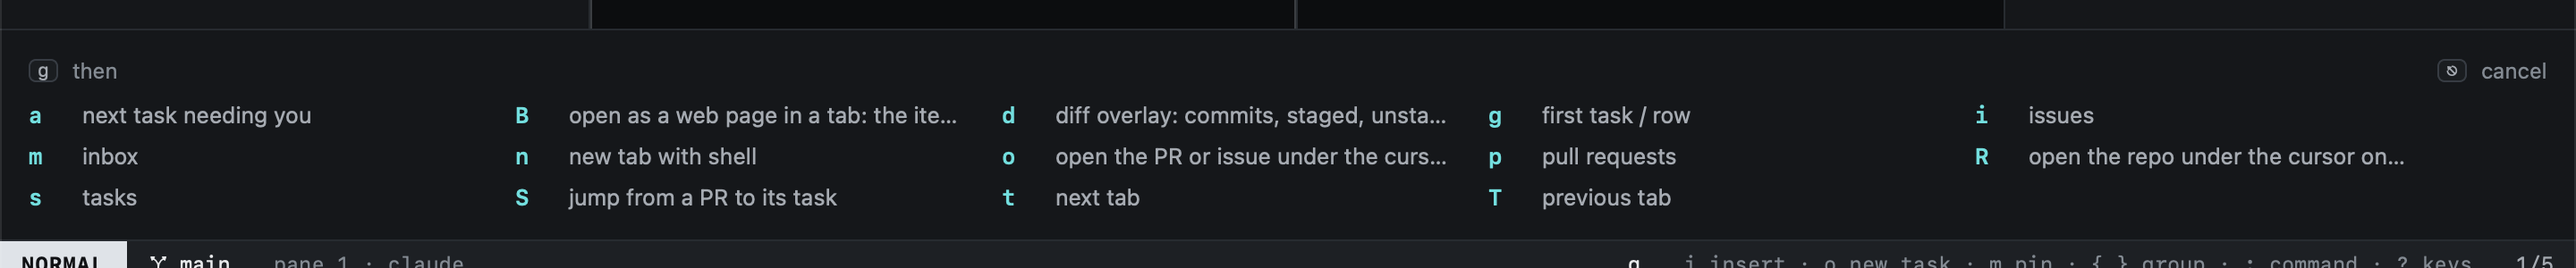
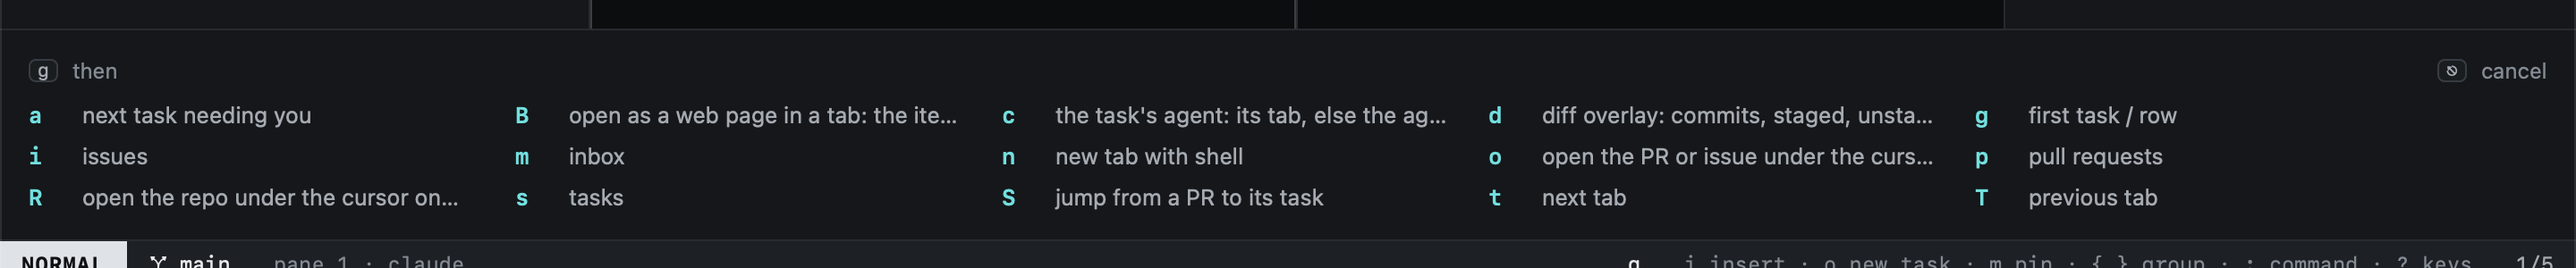
gc (tab.agent): to the task's agent, or bring back the one closed by mistake
A closed agent pane's Claude session and folder stay on the task's layout.
gc goes to the agent tab when there is one; else it resumes the agent closed
last where it worked (when Claude still has the session); else it starts a new
agent where the task works. The close confirmations say so.

diff --git a/Tests/HeedCoreTests/TaskTests.swift b/Tests/HeedCoreTests/TaskTests.swift
@@ -323,6 +323,75 @@ struct NewTaskTests {
         #expect(domain.layouts.values.first?.tabs.first?.focused == panes.first?.id)
     }
 
+    @Test func theAgentKeyGoesToTheAgentTabTheTaskHas() {
+        var layout = layout("t", agents: ["a"])
+        layout.tabs.insert(PaneTab(title: "shell", tree: .leaf(pane("t-first"))), at: 0)
+        let opening = NewTask.openAgent(
+            in: layout, task: task("t"), agent: WorkSettings.default.claude, integration: nil
+        )
+        #expect(opening == .existing(tab: 1, pane: "t-a"))
+    }
+
+    @Test func aClosedAgentComesBackResumedWhereItWorked() throws {
+        var domain = Domain(
+            tasks: [task("t")], layouts: ["t": layout("t", agents: ["a"])],
+            agents: ["t-a": AgentTab(claudeSessionID: "s-1")]
+        )
+        var moved = try #require(domain.layouts["t"])
+        moved.tabs[0].tree = moved.tabs[0].tree.updating("t-a") { $0.directory = "/wt/fix" }
+        domain.apply(.layoutChanged(task: "t", moved))
+        var closed = try #require(domain.layouts["t"])
+        closed.removeTab(at: 0)
+        domain.apply(.layoutChanged(task: "t", closed))
+        let kept = try #require(domain.layouts["t"])
+        #expect(kept.closedAgent == ClosedAgent(claudeSessionID: "s-1", directory: "/wt/fix"))
+
+        let opening = NewTask.openAgent(
+            in: kept, task: task("t"), agent: WorkSettings.default.claude, integration: nil
+        ) { id, directory in id == "s-1" && directory == "/wt/fix" }
+        guard case let .opened(layout, paneID, agent, resumed) = opening else {
+            Issue.record("expected a new agent tab, got \(String(describing: opening))")
+            return
+        }
+        #expect(resumed)
+        #expect(layout.closedAgent == nil)
+        #expect(layout.activeTab == layout.tabs.count - 1)
+        let pane = try #require(layout.tabs.last?.tree.panes.first)
+        #expect(pane.id == paneID)
+        #expect(pane.role == .agent)
+        #expect(pane.directory == "/wt/fix")
+        #expect(pane.command == "claude --resume s-1")
+        #expect(agent.claudeSessionID == "s-1")
+    }
+
+    @Test func withoutAClosedAgentClaudeHasItStartsAFreshOneWhereTheTaskWorks() throws {
+        let gone = TaskLayout(tabs: [], closedAgent: ClosedAgent(claudeSessionID: "s-1", directory: "/wt/old"))
+        var worktree = task("t")
+        worktree.worktree = "/wt/fix"
+        for layout in [TaskLayout(tabs: []), gone] {
+            let opening = NewTask.openAgent(
+                in: layout, task: worktree, agent: WorkSettings.default.claude, integration: nil
+            ) { _, _ in false }
+            guard case let .opened(opened, _, agent, resumed) = opening else {
+                Issue.record("expected a new agent tab, got \(String(describing: opening))")
+                return
+            }
+            #expect(!resumed)
+            #expect(opened.closedAgent == nil)
+            let pane = try #require(opened.tabs.last?.tree.panes.first)
+            #expect(pane.directory == "/wt/fix")
+            let id = try #require(agent.claudeSessionID)
+            #expect(pane.command == "claude --session-id \(id)")
+        }
+        #expect(NewTask.openAgent(in: gone, task: worktree, agent: nil, integration: nil) == nil)
+    }
+
+    @Test func aLayoutCachedBeforeClosedAgentsStillLoads() throws {
+        let json = #"{"tabs":[],"activeTab":0}"#
+        let layout = try JSONDecoder().decode(TaskLayout.self, from: Data(json.utf8))
+        #expect(layout.closedAgent == nil)
+    }
+
     @Test func withoutClaudeItOpensAShell() {
         let settings = WorkSettings(agents: [])
         let domain = Domain.empty.applying(NewTask.start(WorkTask(title: "t"), settings: settings, integration: nil))

diff --git a/Sources/HeedApp/Model/AppModel.swift b/Sources/HeedApp/Model/AppModel.swift
@@ -1051,6 +1051,7 @@ final class AppModel {
         case "tab.next": cycleTab(by: count)
         case "tab.prev": cycleTab(by: -count)
         case "tab.new": newTab()
+        case "tab.agent": openAgentTab()
         case "browser.new": newPageTab(command.arguments.joined(separator: " "))
         case "browser.location":
             if let pane = focusedBrowserPane { beginAddressEdit(pane) } else { flash = "not on a web page" }
@@ -1586,7 +1587,10 @@ final class AppModel {
         }
         ask(Confirmation(
             title: "Close the \(pane.title) pane?",
-            lines: ["The agent in it stops; the task and its worktree stay"],
+            lines: [
+                "The agent in it stops; the task and its worktree stay",
+                "\(keyText(for: "tab.agent")) brings the agent back, with its conversation",
+            ],
             accept: "Close"
         ) { [weak self] in self?.closePane() })
     }
@@ -2510,7 +2514,10 @@ final class AppModel {
         layout.activeTab = index
         ask(Confirmation(
             title: "Close the \(layout.tabs[index].title) tab?",
-            lines: ["The agent in it stops; the task and its worktree stay"],
+            lines: [
+                "The agent in it stops; the task and its worktree stay",
+                "\(keyText(for: "tab.agent")) brings the agent back, with its conversation",
+            ],
             accept: "Close"
         ) { close() })
     }
@@ -2542,6 +2549,28 @@ final class AppModel {
             layout.activeTab = layout.tabs.count - 1
         }
         autoInsert()
+    }
+
+    /// `gc`: to the task's agent, in INSERT; one closed by mistake comes back with its conversation.
+    private func openAgentTab() {
+        guard let task = currentTask else { return flash = "no task here" }
+        view = .tasks
+        let opening = NewTask.openAgent(
+            in: layouts[task.id] ?? TaskLayout(tabs: []), task: task, agent: settings.claude, integration: integration
+        ) { id, directory in AgentIntegration.hasSession(agent: "claude", id: id, directory: directory) }
+        switch opening {
+        case nil:
+            flash = "no agent set up ([agents.claude])"
+        case let .existing(tab, pane):
+            updateLayout { $0.activeTab = tab }
+            focusPane(pane)
+            enterInsert()
+        case let .opened(layout, pane, agent, resumed):
+            autostart(layout.panes.filter { $0.id == pane })
+            commit([.layoutChanged(task: task.id, layout), .agentChanged(pane: pane, agent)])
+            flash = resumed ? "resumed the agent closed last" : "new agent in \(Paths.abbreviate(task.directory))"
+            enterInsert()
+        }
     }
 
     func selectTab(_ index: Int) {

diff --git a/Sources/HeedCore/Tasks/NewTask.swift b/Sources/HeedCore/Tasks/NewTask.swift
@@ -150,6 +150,56 @@ public enum NewTask {
         return layout
     }
 
+    /// What `tab.agent` does in a task.
+    public enum AgentOpening: Equatable, Sendable {
+        /// The task has an agent tab: go there.
+        case existing(tab: Int, pane: String)
+        /// A new agent tab, shown at the end: the agent closed last, resumed where it worked, else a fresh one where
+        /// the task works.
+        case opened(TaskLayout, pane: String, AgentTab, resumed: Bool)
+    }
+
+    /// The task's agent, brought back when its tab was closed. `hasSession` says whether Claude still has a session
+    /// for a folder (nil when it cannot tell). Nil without Claude.
+    public static func openAgent(
+        in layout: TaskLayout, task: WorkTask, agent: AgentProfile?, integration: IntegrationFiles?,
+        hasSession: (_ id: String, _ directory: String) -> Bool? = { _, _ in nil }
+    ) -> AgentOpening? {
+        for (index, tab) in layout.tabs.enumerated() {
+            if let pane = tab.tree.panes.first(where: { $0.role == .agent }) {
+                return .existing(tab: index, pane: pane.id)
+            }
+        }
+        guard let agent else { return nil }
+        var layout = layout
+        let tab: PaneTab
+        let made: (pane: String, tab: AgentTab)
+        var resumed = false
+        if let closed = layout.closedAgent, hasSession(closed.claudeSessionID, closed.directory) != false,
+           let command = agent.resumeCommand(
+               id: closed.claudeSessionID,
+               extraArguments: AgentIntegration.launchArguments(
+                   agent: agent, claudeSessionID: closed.claudeSessionID, files: integration, resuming: true
+               )
+           )
+        {
+            let pane = PaneSpec(
+                id: newID(), role: .agent, title: agent.name, directory: closed.directory, command: command
+            )
+            tab = PaneTab(id: newID(), title: "agent", tree: .leaf(pane))
+            made = (pane.id, AgentTab(activity: "resuming", claudeSessionID: closed.claudeSessionID))
+            resumed = true
+        } else {
+            let built = agentTab(in: task.directory, prompt: "", agent: agent, integration: integration)
+            guard let agent = built.agent else { return nil }
+            (tab, made) = (built.tab, agent)
+        }
+        layout.closedAgent = nil
+        layout.tabs.append(tab)
+        layout.activeTab = layout.tabs.count - 1
+        return .opened(layout, pane: made.pane, made.tab, resumed: resumed)
+    }
+
     /// A tab running `agent` on `prompt` in `directory`, with its own Claude session id, and a shell split beside it
     /// when asked. Without an agent, a shell.
     public static func agentTab(

diff --git a/Sources/HeedCore/Domain/Domain.swift b/Sources/HeedCore/Domain/Domain.swift
@@ -4,10 +4,13 @@ import Foundation
 public struct TaskLayout: Hashable, Sendable, Codable {
     public var tabs: [PaneTab]
     public var activeTab: Int
+    /// The agent whose pane closed last, so `tab.agent` can resume it. An old cache without it still loads.
+    public var closedAgent: ClosedAgent?
 
-    public init(tabs: [PaneTab], activeTab: Int = 0) {
+    public init(tabs: [PaneTab], activeTab: Int = 0, closedAgent: ClosedAgent? = nil) {
         self.tabs = tabs
         self.activeTab = activeTab
+        self.closedAgent = closedAgent
     }
 
     public var panes: [PaneSpec] { tabs.flatMap(\.tree.panes) }
@@ -76,6 +79,17 @@ public struct TaskLayout: Hashable, Sendable, Codable {
     }
 }
 
+/// An agent tab that was closed: its Claude session and the folder it last worked in.
+public struct ClosedAgent: Hashable, Sendable, Codable {
+    public var claudeSessionID: String
+    public var directory: String
+
+    public init(claudeSessionID: String, directory: String) {
+        self.claudeSessionID = claudeSessionID
+        self.directory = directory
+    }
+}
+
 /// Everything Heed knows, as one value. The window is drawn from this (plus input state), it is what the cache
 /// stores, and fixtures are just instances of it, so the UI can start in any state without IO. A cache with fields this
 /// build no longer has still loads: decoding skips unknown keys.
@@ -118,7 +132,7 @@ public enum DomainChange: Hashable, Sendable, Codable {
     case taskUpserted(WorkTask)
     /// The task goes with its layout and its agent tabs.
     case taskRemoved(String)
-    /// Agent tabs of panes the new layout no longer has go too.
+    /// Agent tabs of panes the new layout no longer has go too; the layout keeps a closed agent's Claude session.
     case layoutChanged(task: String, TaskLayout)
     case agentChanged(pane: String, AgentTab)
     /// A GitHub sync finished (or failed: the status says so and the data is the previous data).
@@ -145,8 +159,12 @@ public extension Domain {
             }
             layouts[id] = nil
         case let .layoutChanged(task, layout):
+            var layout = layout
             let kept = Set(layout.panes.map(\.id))
             for pane in layouts[task]?.panes ?? [] where !kept.contains(pane.id) {
+                if pane.role == .agent, let id = agents[pane.id]?.claudeSessionID {
+                    layout.closedAgent = ClosedAgent(claudeSessionID: id, directory: pane.directory)
+                }
                 agents[pane.id] = nil
             }
             layouts[task] = layout

diff --git a/Sources/HeedCore/Keys/DefaultKeys.swift b/Sources/HeedCore/Keys/DefaultKeys.swift
@@ -17,7 +17,7 @@ public enum DefaultKeys {
         ("<C-w>v", "pane.split.right"), ("<C-w>s", "pane.split.below"), ("<C-w>z", "pane.zoom"),
         ("<C-w>q", "pane.close"), ("<C-w>h", "pane.left"), ("<C-w>l", "pane.right"), ("<C-w>j", "pane.down"),
         ("<C-w>k", "pane.up"),
-        ("gt", "tab.next"), ("gT", "tab.prev"), ("gn", "tab.new"), ("<D-t>", "browser.new"),
+        ("gt", "tab.next"), ("gT", "tab.prev"), ("gn", "tab.new"), ("gc", "tab.agent"), ("<D-t>", "browser.new"),
         ("gs", "view.tasks"), ("gm", "view.inbox"), ("gi", "view.issues"), ("gp", "view.prs"),
         ("go", "overlay.item"), ("gd", "overlay.diff"), ("gS", "pr.task"),
         ("<C-o>", "jump.back"), ("gB", "open.browser"), ("gR", "open.repo"),

diff --git a/Sources/HeedCore/Keys/Commands.swift b/Sources/HeedCore/Keys/Commands.swift
@@ -71,6 +71,9 @@ public enum Commands {
         .init("tab.next", "next tab", .panes),
         .init("tab.prev", "previous tab", .panes),
         .init("tab.new", "new tab with shell", .panes),
+        .init(
+            "tab.agent", "the task's agent: its tab, else the agent closed last (resumed), else a new one", .panes
+        ),
         .init("tab.go", "go to tab n", .panes, arguments: "<n>"),
         .init("browser.new", "new tab with a web page (no address: type one)", .panes, arguments: "[url]"),
         .init("browser.back", "web page: back", .panes),

diff --git a/docs/tasks/panes-and-tabs.md b/docs/tasks/panes-and-tabs.md
@@ -16,6 +16,7 @@ vim.
 | `⌃w q` | Close the focused pane; an agent's pane asks first |
 | `gt` / `gT` | Next / previous tab |
 | `gn` | New tab with a shell (or click `+`) |
+| `gc` | The task's agent: to its tab; when it was closed, it comes back with its conversation; else a new agent |
 | `:tab.close` | Close the tab and every pane in it (or click its `×`); a tab with an agent asks first |
 
 ![After ⌃w v: the agent pane split, a new shell on the right](../images/shots/tasks/split.png)
@@ -35,7 +36,8 @@ A pane closes when its terminal ends: `exit` or `⌃D` in a shell, or a command 
 takes the tab with it.
 
 When a task has no terminal left, whether by `exit`, `×` or `⌃w q`, the task stays where it is, and `gn` opens a
-shell in its checkout. A task ends through its status, not by closing its terminals.
+shell in its checkout. A task ends through its status, not by closing its terminals. `gc` brings back the agent
+closed last: Claude resumes its conversation in the folder it worked in.
 
 Terminals that end together across several tasks were lost, not closed (heed quitting, or being replaced while it
 runs), and no task is touched: they reopen on the next launch. The same goes for every terminal while heed quits.

diff --git a/docs/keyboard/reference.md b/docs/keyboard/reference.md
@@ -53,6 +53,7 @@ This page is generated from the code (`mise run shots`).
 | `tab.next` | `gt` | next tab |
 | `tab.prev` | `gT` | previous tab |
 | `tab.new` | `gn` | new tab with shell |
+| `tab.agent` | `gc` | the task's agent: its tab, else the agent closed last (resumed), else a new one |
 | `tab.go` `<n>` |  | go to tab n |
 | `browser.new` `[url]` | `<D-t>`, `<D-t>` (INSERT) | new tab with a web page (no address: type one) |
 | `browser.back` | `<D-[>` (browser) | web page: back |
